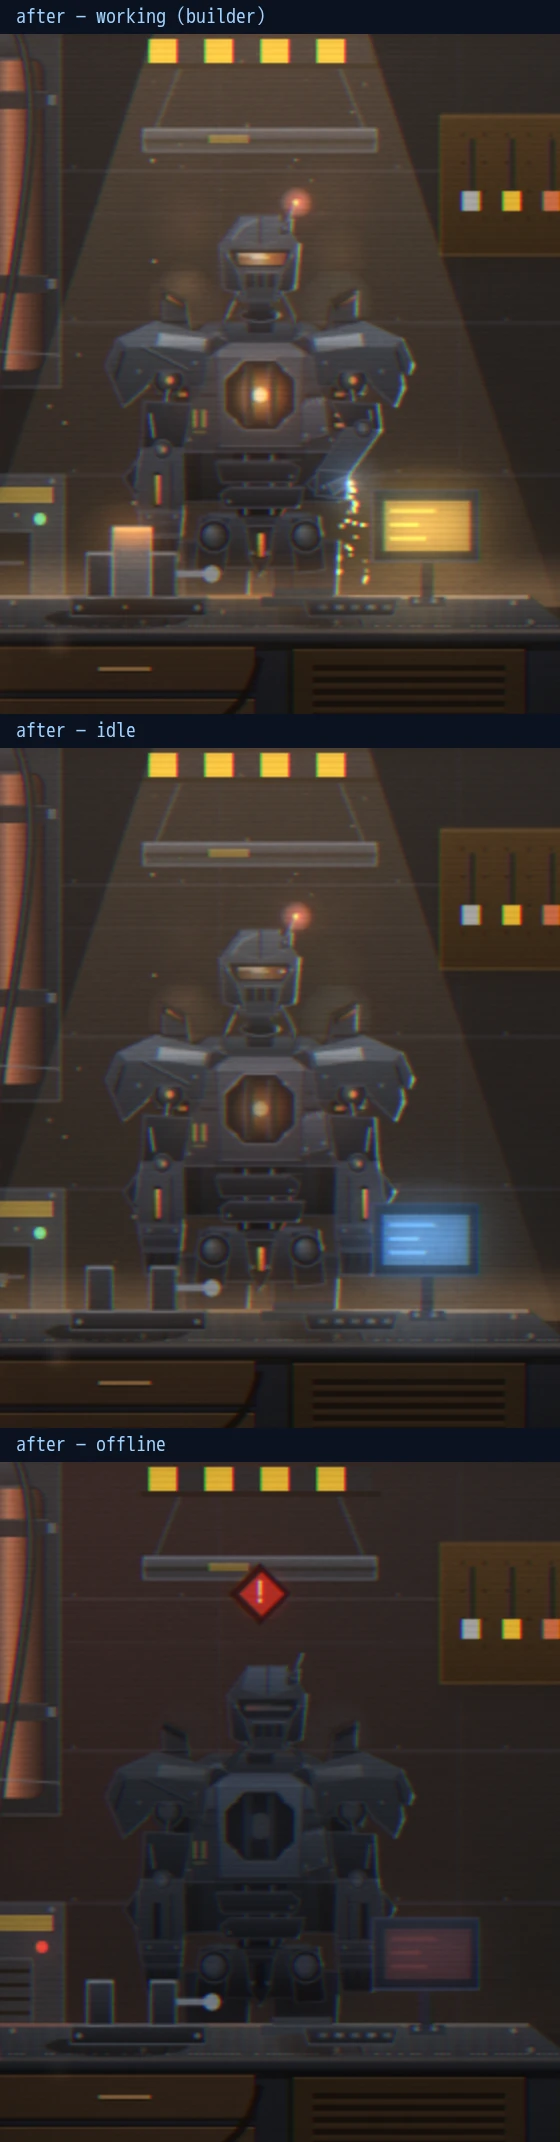
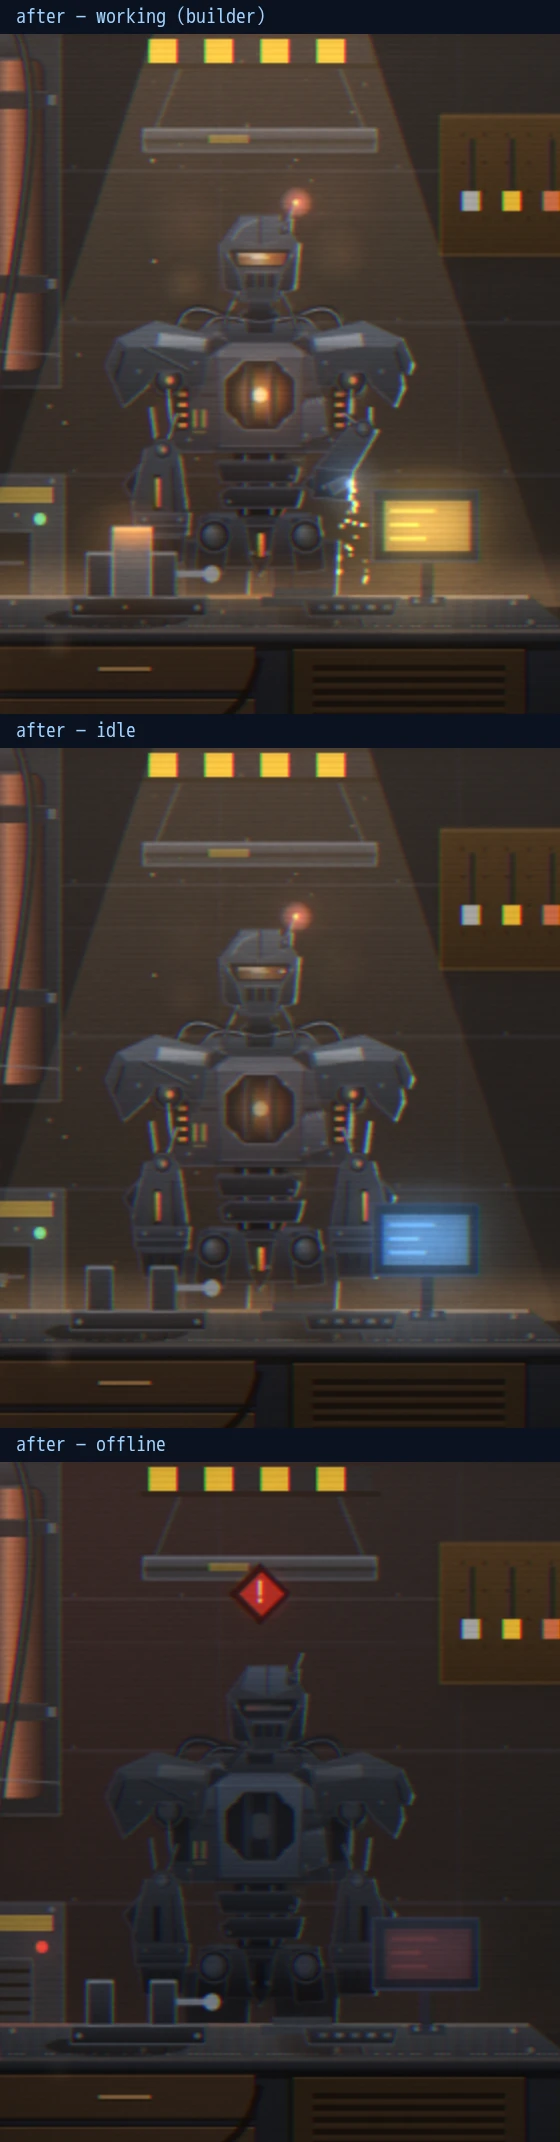
feat(fleet-floor): loops 14-16 docs + FLOORDEV.cam — the walk polls the camera
The browser walk failed twice on an idle box (15-16/17 boxes reached):
a console dwell expires every visible miniStill, the first floor
frames after Escape each cost a full room render, so the fixed
post-wheel waits covered ~4 easing frames and cell-centre clicks fell
in the inter-cell gaps. The camera is readable now — FLOORDEV.cam(),
joining the whiteboard hook that postdates the walk's original 'no
test hook in production code' decision — and scrollTo polls
convergence instead of sleeping. Perf note: room frame cost is
main-equivalent (318 vs 307ms on a GPU-less box, ~3%); the art did
not cause the miss. Full suite: 360 ok, 0 failed.

diff --git a/fleet-floor/test/browser.js b/fleet-floor/test/browser.js
@@ -166,16 +166,29 @@ const eq = (name, want, got) => ok(name, String(want) === String(got), `expected
   // The camera eases toward its target, so scrolling needs a settle wait.
   // Absolute positioning: rewind to 0 first, then wheel forward by `cam`, so
   // the camera lands somewhere known rather than "as far as it got".
+  /* The camera IS readable now: FLOORDEV.cam() (the whiteboard hook postdates
+     the "reading the real camera would need a test hook" decision below, and
+     the hook exists regardless). The fixed waits this replaced covered ~4
+     easing frames on a machine where a console dwell expires every visible
+     miniStill — each post-Escape floor frame then costs a full room render,
+     the camera lands half-scrolled, and a cell-centre click falls in a gap:
+     that was "15/17 boxes reached", twice, on an idle box. Poll convergence;
+     on timeout click anyway — every caller still verifies by outcome. */
+  const camAt = () => page.evaluate(() => window.FLOORDEV.cam());
+  const settleCam = async (want) => {
+    for (let w = 0; w < 8000; w += 60) {
+      if (Math.abs((await camAt()) - want) < 0.75) return true;
+      await page.waitForTimeout(60);
+    }
+    return false;
+  };
   const scrollTo = async (cam) => {
     await page.mouse.move(geom.vw / 2, geom.topY + 40);
-    // No DOM signal for the canvas camera, so this one still waits — but every
-    // caller verifies by OUTCOME (enter() returns the box that actually
-    // opened), so a short settle costs a retry, never a false result.
     await page.mouse.wheel(-(totalW + 2000), 0);
-    await page.waitForTimeout(800);
+    await settleCam(0);
     if (cam > 0) {
       await page.mouse.wheel(cam, 0);
-      await page.waitForTimeout(1200);
+      await settleCam(Math.min(cam, camMax));
     }
   };
   /* POLL, never sleep-and-hope. A fixed 700 ms for the room to open and 1200 ms

diff --git a/fleet-floor/dev/whiteboard.html b/fleet-floor/dev/whiteboard.html
@@ -4611,6 +4611,12 @@ pollFleet();setInterval(pollFleet,POLL_MS);
    Unused by index.html — it costs one property on window. */
 window.FLOORDEV={W:DW,H:DH,AGENTS:["claude","codex","grok","kimi"],
   ROOMS:["builder","reviewer","triage"],STATES:["working","idle","offline"],
+  /* The floor camera, for the browser walk. The camera eases per FRAME, not
+     per second, and a console dwell expires every visible miniStill — so the
+     first floor frames after Escape cost a full room render each, and a
+     fixed post-wheel wait covers almost no easing on a slow machine. The
+     walk polls this instead of sleeping; it asserts by outcome either way. */
+  cam:function(){return floorCam;},
   /* render(dst,{agent,room,state,t,warm,flat}) */
   render:function(dst,o){
     borrowRoom(o,function(){

diff --git a/fleet-floor/index.html b/fleet-floor/index.html
@@ -4520,6 +4520,12 @@ pollFleet();setInterval(pollFleet,POLL_MS);
    Unused by index.html — it costs one property on window. */
 window.FLOORDEV={W:DW,H:DH,AGENTS:["claude","codex","grok","kimi"],
   ROOMS:["builder","reviewer","triage"],STATES:["working","idle","offline"],
+  /* The floor camera, for the browser walk. The camera eases per FRAME, not
+     per second, and a console dwell expires every visible miniStill — so the
+     first floor frames after Escape cost a full room render each, and a
+     fixed post-wheel wait covers almost no easing on a slow machine. The
+     walk polls this instead of sleeping; it asserts by outcome either way. */
+  cam:function(){return floorCam;},
   /* render(dst,{agent,room,state,t,warm,flat}) */
   render:function(dst,o){
     borrowRoom(o,function(){

diff --git a/fleet-floor/src/app.js b/fleet-floor/src/app.js
@@ -4303,6 +4303,12 @@ pollFleet();setInterval(pollFleet,POLL_MS);
    Unused by index.html — it costs one property on window. */
 window.FLOORDEV={W:DW,H:DH,AGENTS:["claude","codex","grok","kimi"],
   ROOMS:["builder","reviewer","triage"],STATES:["working","idle","offline"],
+  /* The floor camera, for the browser walk. The camera eases per FRAME, not
+     per second, and a console dwell expires every visible miniStill — so the
+     first floor frames after Escape cost a full room render each, and a
+     fixed post-wheel wait covers almost no easing on a slow machine. The
+     walk polls this instead of sleeping; it asserts by outcome either way. */
+  cam:function(){return floorCam;},
   /* render(dst,{agent,room,state,t,warm,flat}) */
   render:function(dst,o){
     borrowRoom(o,function(){

diff --git a/fleet-floor/dev/LOOPS.md b/fleet-floor/dev/LOOPS.md
@@ -1644,6 +1644,39 @@ other body group already had.
 
 ![claude structure progression, round 3](shots/claude-structure/progression-3.webp)
 
+Round four is subtraction. The operator kept naming the same discomfort from
+the front view — "the backpack looks odd", then "remove the grey plate that's
+the biceps" — and each cut proved the silhouette was better without the part:
+
+**Loop 14 — delete the backpack plate; the gap was the drawing.** Two loops
+of recolouring, tapering, finning and shadowing still left a grey wing
+filling the space between torso and arm, because from the front that space
+IS the drawing. Daylight between arms and waist is what makes the chest read
+broad and the unit read fit.
+
+**Loop 15 — bare-rod biceps, coned bracers.** The upper-arm plate was the
+same complaint one limb down. Deleted in all three poses: two exposed
+actuator rods run from the shoulder socket into the elbow cap, and the arm's
+mass moves to a forearm cone that leaves the elbow narrow and widens to a
+broader wrist clamp and fist.
+
+**Loop 16 — the stacks go too; the back trails cables.** Hardware standing
+above the shoulders read as luggage. Two power cables per side now loop out
+of the back and down into the collar, drawn first so torso and pauldrons
+overlap them. Doom units don't carry backpacks; they trail cables.
+
+**And the walk got honest about the camera.** During these loops the browser
+walk failed twice on an idle box — "15/17 boxes reached" — the same slow-
+runner miss its own comments describe. Mechanism: a console dwell expires
+every visible miniStill, the first floor frames after Escape cost a full
+room render each, so the fixed post-wheel waits covered ~4 easing frames and
+cell-centre clicks fell in the gaps. The camera is readable now
+(`FLOORDEV.cam()`, joining the whiteboard hook that postdates the original
+"no test hook" decision), and `scrollTo` polls convergence instead of
+sleeping. Full suite after the change: 360 ok, 0 failed.
+
+![claude structure progression, round 4](shots/claude-structure/progression-4.webp)
+
 ![claude after, three states](shots/claude-structure/states.webp)
 
 The unit envelope was re-measured over all 36 combinations after the wider
